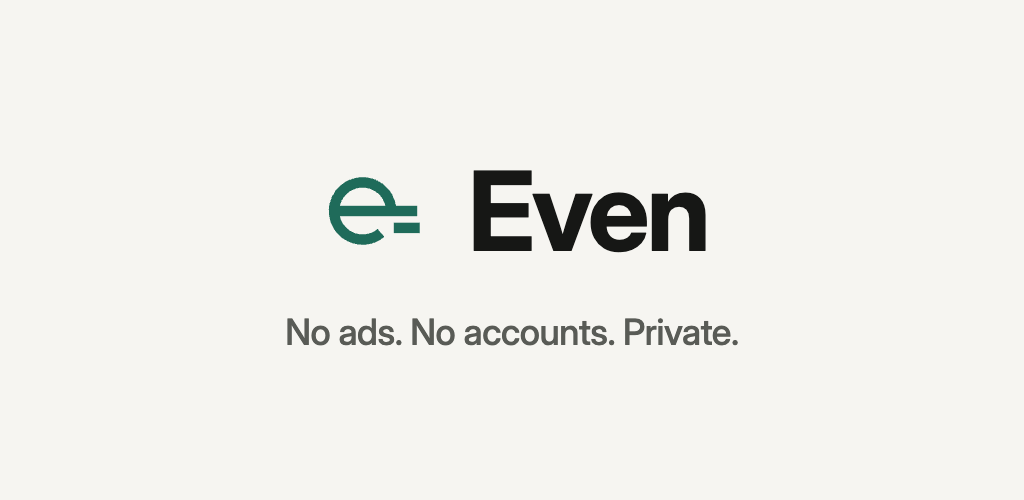
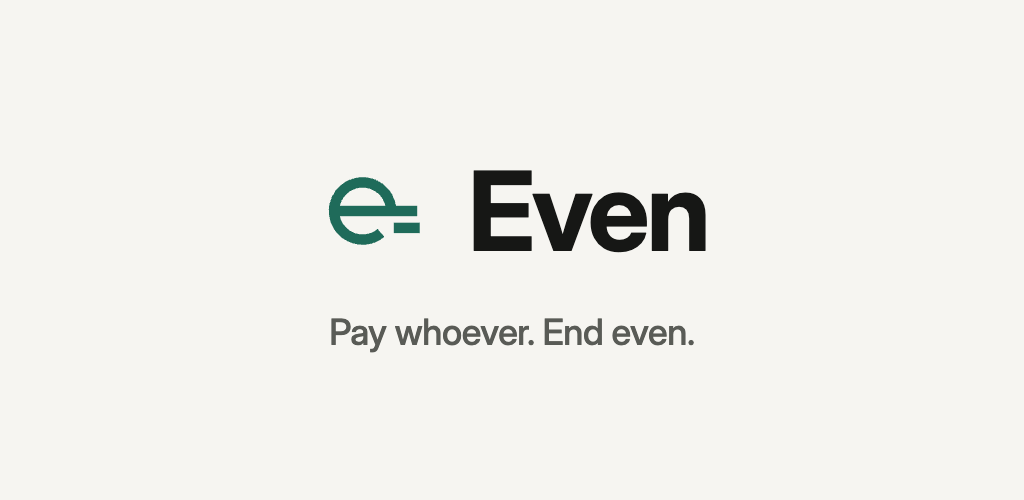
docs(store): the subtitle is the tagline, as on the website
"Pay whoever. End even." under the name in both stores and on the feature
graphic, matching web/index.html; the pillars ("No ads. No accounts. Private.")
move one line down, into the promotional text and the short description.
Decided by the owner on 1 October 2026.

Changed region(s): [[0.2812, 0.63, 0.7188, 0.72]]

diff --git a/docs/store/feature-graphic.html b/docs/store/feature-graphic.html
@@ -1,6 +1,6 @@
 <!doctype html>
 <!--
-  Play feature graphic, 1024 x 500: the lockup on the canvas colour with the subtitle, nothing else.
+  Play feature graphic, 1024 x 500: the lockup on the canvas colour with the tagline, nothing else.
   Tokens are the `even` theme's light values (src/theme/themes.ts): background, accent, text, textSecondary.
   The mark is the one on the landing page (web/index.html); the type is Inter Display, which the Android app
   bundles (assets/fonts), at the lockup's proportions (typography.ts wordmarkLockup: 44/48, 700, -1.2, with a
@@ -61,7 +61,7 @@
     <svg class="mark" width="130" height="130" viewBox="0 0 100 100" aria-hidden="true"><g fill="none" stroke="currentColor" stroke-width="8"><path d="M20 50H84"/><path d="M64 50A22 22 0 1 0 56.14 66.85"/><path d="M66 63H86"/></g></svg>
     <span>Even</span>
   </div>
-  <p class="subtitle" id="subtitle">No ads. No accounts. Private.</p>
+  <p class="subtitle" id="subtitle">Pay whoever. End even.</p>
   <script>
     const subtitle = new URLSearchParams(location.search).get('subtitle');
     if (subtitle) document.getElementById('subtitle').textContent = subtitle;

diff --git a/docs/store-listing.md b/docs/store-listing.md
@@ -17,8 +17,9 @@ says so.
 
 Recommendations are in bold. Everything else on this page follows from them.
 
-1. **Subtitle (App Store):** **keep "No ads. No accounts. Private."** or switch to "Shared bills. No ads.
-   Private.", which adds the search word "bills" and drops "No accounts".
+1. **Subtitle (App Store):** decided on 1 October 2026: **"Pay whoever. End even."**, the website's tagline, so
+   the line under the name in the store is the line on the site. The pillars ("No ads. No accounts. Private.")
+   stay one line down, in the promotional text and the short description.
 2. **Secondary category (App Store):** **Lifestyle** or Utilities. See [Category](#category).
 3. **IP addresses (App Privacy and Data safety):** **declare nothing on either store**, or declare them under
    the strict reading. See [IP addresses](#ip-addresses-the-judgment-call).
@@ -48,18 +49,15 @@ The app record already exists: "Even - Split Expenses", bundle `com.appalaya.eve
 Even - Split Expenses
 ```
 
-**Subtitle** · limit 30 · 29. This is the current one, recommended:
+**Subtitle** · limit 30 · 22. The website's tagline (`web/index.html`, README.md), decided on 1 October 2026.
+The App Store record still carries "No ads. No accounts. Private." from when the name was reserved; replace it.
 
 ```text
-No ads. No accounts. Private.
+Pay whoever. End even.
 ```
 
-The alternative · 30. It puts "bills" in a field Apple weights heavily, at the cost of "No accounts". The
-description and promotional text still say "no accounts".
-
-```text
-Shared bills. No ads. Private.
-```
+The pillars are not lost: the promotional text opens with "No ads, no accounts", and the description has a
+paragraph for each.
 
 #### Category
 
@@ -108,7 +106,7 @@ rejects. Apple combines keywords with words in the name, so "bill" here also mat
 bill,trip,travel,roommates,friends,group,rent,iou,owe,settle,share,dinner,splitter,privacy,encrypted
 ```
 
-If you take the alternative subtitle, replace `bill` with `tab`, since the subtitle then carries "bills".
+The subtitle adds no search words, so the keywords carry them all; the name carries "split" and "expenses".
 
 **Support URL**
 
@@ -325,11 +323,11 @@ The app record "Even" (`com.appalaya.even`) exists, and internal testing already
 Even - Split Expenses
 ```
 
-**Short description** · limit 80 · 71. It leaves out "free", which Play's metadata policy is strict about in
-prominent fields.
+**Short description** · limit 80 · 69. The tagline first, as on the website, then the pillars. It leaves out
+"free", which Play's metadata policy is strict about in prominent fields.
 
 ```text
-Split costs with friends. No ads, no accounts, encrypted on your phone.
+Pay whoever. End even. No ads, no accounts, encrypted on your phone.
 ```
 
 **Full description** · limit 4000 · 899. It's the App Store description unchanged. Play accepts plain
@@ -546,14 +544,14 @@ group can read it") and the tagline. Each is under 35 characters, so it fits one
 ## Feature graphic
 
 `docs/store/feature-graphic.png` (1024 × 500, RGB, no alpha) is the lockup on the canvas colour with the
-subtitle, and nothing else. The mark is the landing page's, in the accent `#1F6B5A`. "Even" is set in Inter
+tagline "Pay whoever. End even.", and nothing else. The mark is the landing page's, in the accent `#1F6B5A`. "Even" is set in Inter
 Display Bold, the Android app's typeface, at the lockup's proportions (typography.ts `wordmarkLockup`)
-scaled 2.5 times. The subtitle is in `textSecondary` `#595B56` on `background` `#F6F5F1`, the `even` light
-tokens from `src/theme/themes.ts`. The source is `feature-graphic.html` next to it. To re-render with the
-other subtitle:
+scaled 2.5 times. The tagline is in `textSecondary` `#595B56` on `background` `#F6F5F1`, the `even` light
+tokens from `src/theme/themes.ts`. The source is `feature-graphic.html` next to it. To re-render with another
+line:
 
 ```bash
-node docs/store/render.mjs feature --subtitle "Shared bills. No ads. Private."
+node docs/store/render.mjs feature --subtitle "Pay whoever. End even."
 ```
 
 `render.mjs` uses the Google Chrome installed in /Applications through Playwright from the npx cache, and
